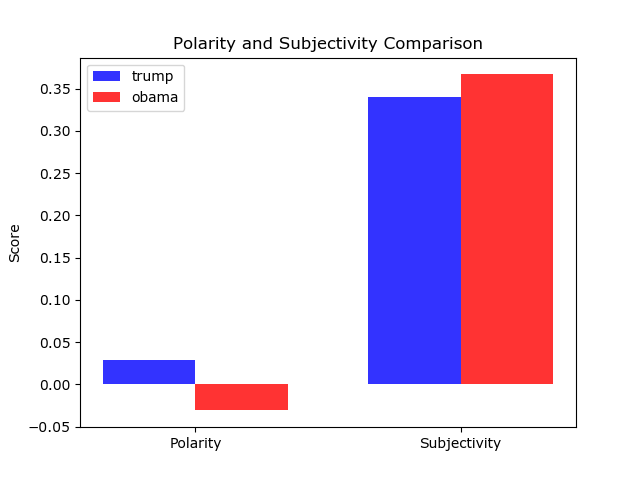
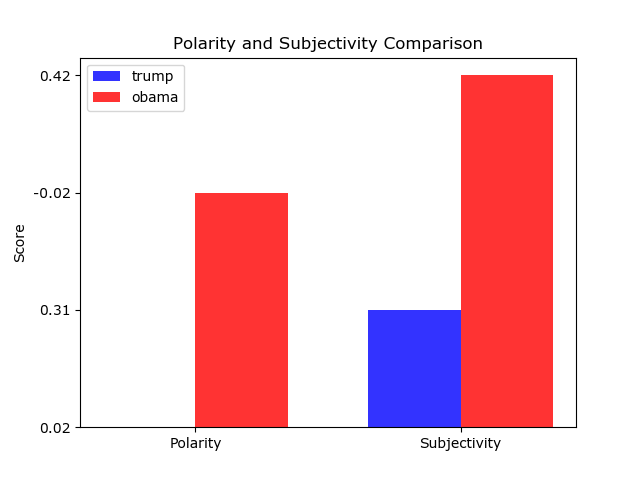
hi

diff --git a/templates/homepage.html b/templates/homepage.html
@@ -1,0 +1,58 @@
+<html lang="en"> 
+
+  <head>
+      <meta http-equiv="content-type" content="text/html; charset=utf-8" />
+      <meta name="viewport" content="width=device-width, initial-scale=1.0, maximum-scale=2.0, user-scalable=yes" />
+      <meta name="apple-mobile-web-app-capable" content="yes" />
+      <meta name="apple-mobile-web-app-status-bar-style" content="black" />
+      <meta name="mobile-web-app-capable" content="yes" /> 
+      <link rel="stylesheet" href="{{ url_for('static',    filename='css/style.css') }}">  
+  <title>Sentiment Analysis</title>
+
+	<style>
+	/* Your styles go here */
+	</style>
+	
+	<script>
+	/* Your JavaScript goes here */
+	</script>
+  </head>
+
+  <body>
+
+
+<h1> Welcome to the Sentiment Analysis world! </h1>
+
+<p> 
+
+    <img id="pic1" src="https://www.cure-sa.eu/fileadmin/_processed_/6/6/csm_Sentimentanalyse_c3fbda7133.jpg" title="hello"/>
+</p>
+
+<h2> What sentiment information would you like to get? </h2>
+
+<h2> User Guidelines</h2>
+<p> If you want to get the general sentiment about a specific keyword, 
+  you can use our Overall Sentiment option. This also, allows you to 
+compare the general sentiment of two different keywords. 
+You can utilize these tools to compare the sentiment of two rivalry keywords
+that you would like to analyze. Moreover, it also provides a comparative bar chart 
+of the two keywords, which would allow you to better identify the differences among 
+the sentiments of two keywords.  </p>
+
+<p> If you prefer to get the sentiment of a specific twitter account regarding 
+  various topics, you can utilize our Individual Sentiment option above. Simply click on the 
+  Individual Sentiment Analysis above. This option allows the users to put as many keywords as 
+  you would like to analyze. Users must put in a specific user account id, for us to analyze the 
+  sentiments! It also provides a several informative charts that depicts the historical 
+  changes in the length of the tweets, historical changes of the likes and retweets of the tweets
+  regarding the selected topics posted by the selected twitter account. 
+</p>
+
+<p> 
+
+<img id="pic1" src="https://www.cure-sa.eu/fileadmin/_processed_/6/6/csm_Sentimentanalyse_c3fbda7133.jpg" title="hello"/>
+</p>
+</form>
+
+  </body>
+</html>

diff --git a/templates/aboutus.html b/templates/aboutus.html
@@ -1,0 +1,51 @@
+<html lang="en"> 
+
+  <head>
+      <meta http-equiv="content-type" content="text/html; charset=utf-8" />
+      <meta name="viewport" content="width=device-width, initial-scale=1.0, maximum-scale=2.0, user-scalable=yes" />
+      <meta name="apple-mobile-web-app-capable" content="yes" />
+      <meta name="apple-mobile-web-app-status-bar-style" content="black" />
+      <meta name="mobile-web-app-capable" content="yes" /> 
+      <link rel="stylesheet" href="{{ url_for('static',    filename='css/style.css') }}">  
+  <title>About Us</title>
+
+	<style>
+	/* Your styles go here */
+	</style>
+	
+	<script>
+	/* Your JavaScript goes here */
+	</script>
+  </head>
+
+  <body>
+
+
+<h2> Who are we? </h2>
+
+<p> We are a group of students at Babson College, learning Python through 
+Problem Solving & Software Design class. We created this website for the purpose of 
+providing a simple and straighforward website that can provide sentiment analysis for any 
+keyword users puts in! Sentiment analysis is a process of analyzing the emotional tone behind the series of words. 
+Through sentiment analysis, users can identify if the keyword is positive, neutral, or negative. 
+Moreover, it is one of the most commonly used tools for analyzing opinions about a specific topic. 
+We wanted to create an accessible and easy-to-use website that does the hard work for numerous companies that conduct sentiment analysis. 
+Rather than having to create a whole programming application to conduct sentiment analysis, 
+users can simply go on our website to get sentiment-related information about any topics. 
+</p>
+
+<h2> How does our analysis work? </h2>
+
+<p> Sentiment analysis of the keywords users put in would be sentiments based on the tweets posted 
+on Twitter server. Since Twitter is one of the most popular social media platforms, nowadays, we believe that 
+our analysis would provide a holistic and comprehensive view of the overall sentiment of the 
+public. Through our website, users would get three specific analyses, which includes polaritiy, subjectivity, and 
+overall sentiment. 
+</p>
+
+<img id="pic1" src="https://www.cure-sa.eu/fileadmin/_processed_/6/6/csm_Sentimentanalyse_c3fbda7133.jpg" title="hello"/>
+
+</form>
+
+  </body>
+</html>

diff --git a/templates/results1.html b/templates/results1.html
@@ -43,13 +43,19 @@
 <p> 
     The polarity and the subjectivity of the first keyword, {{ firstkeyword }}, is below.<br>
     Polarity: {{ polarity1 }}  Subjectivity: {{ subjectivity1 }}. <br>
-    Based on the polarity, the overall sentiment of the keyword {{ firskeyword }} is {{ label1 }}. <br>
+    Based on the polarity, the overall sentiment of the keyword {{ firskeyword }} is {{ label1 }}. <br><br>
 
-    <!-- The polarity and the subjectivity of the second keyword, {{ secondkeyword }}, is below.<br>
+    The polarity and the subjectivity of the second keyword, {{ secondkeyword }}, is below.<br>
     Polarity: {{ polarity2 }}  Subjectivity: {{ subjectivity2 }}. <br>
-    Based on the polarity, the overall sentiment of the second keyword {{ subjectivity2 }} is {{ label2 }}. 
+    Based on the polarity, the overall sentiment of the second keyword {{ subjectivity2 }} is {{ label2 }}. <br><br>
 
-    <img src= {{barplot}} alt="Bar Plot">    -->
+    For your reference of the analyses... 
+    Polarity is a float within the range [-1.0, 1.0], -1.0 being completely negative and 1.0 being completely positive.<br>
+    Subjectivity is a float within the range [0.0, 1.0] where 0.0 is very objective and 1.0 is very subjective.<br><br>
+</p>
+<p>
+    Below is the bar plot that displays the comparison of polarity and subjectivity between the two keywords.<br>
+    <img src= {{barplot}} alt="Bar Plot">   
 
 </p>
 {% endblock %}  

diff --git a/templates/overall.html b/templates/overall.html
@@ -17,14 +17,25 @@
   
   <script src="http://code.jquery.com/jquery.min.js"></script> 
 	<script>
-      $(function (){
-         /* Jquery 2 */
-        $("#y").click(function(){
-        $("#section2").fadeIn("slow");
-        
-    })
-      });
+
 	/* Your JavaScript goes here */
+  function validate()
+  {
+    if (document.getElementById("firstkeyword").value =="")
+        { alert ("KeyWord is Required!"); 
+          document.getElementById("firstkeyword").focus();}
+    else if (document.getElementById("yes").checked==true && document.getElementById("secondkeyword").value=="")
+        {
+          alert ("Second Keyword is Required!")
+          document.getElementById("secondkeyword").focus();
+        }
+    else 
+        {
+          return true;
+        }
+    return false;
+            
+  }
  
 	</script>
   </head>
@@ -44,7 +55,7 @@
 	<!-- Your HTML goes here -->
 <!--use <i> for italicizing word, <br> for break, <hr> for a line break, <h1> </h1> for header-->
 <h1> Sentiment Analysis </h1>
-<form method="POST" name="form1"> 
+<form method="POST" name="form1" onsubmit="return validate()"> 
     <p> What topic would you like to search?</p>
     <input type="text" name="firstkeyword" maxlength="100" id="first"/>
 

diff --git a/templates/results2.html b/templates/results2.html
@@ -43,13 +43,11 @@
 <p> 
     The polarity and the subjectivity of the first keyword, {{ firstkeyword }}, is below.<br>
     Polarity: {{ polarity1 }}  Subjectivity: {{ subjectivity1 }}. <br>
-    Based on the polarity, the overall sentiment of the keyword {{ firskeyword }} is {{ label1 }}. <br>
+    Based on the polarity, the overall sentiment of the keyword {{ firskeyword }} is {{ label1 }}. <br><br>
 
-    The polarity and the subjectivity of the second keyword, {{ secondkeyword }}, is below.<br>
-    Polarity: {{ polarity2 }}  Subjectivity: {{ subjectivity2 }}. <br>
-    Based on the polarity, the overall sentiment of the second keyword {{ subjectivity2 }} is {{ label2 }}. 
-
-    <img src= {{barplot}} alt="Bar Plot">   
+    For your reference of the analyses... 
+    Polarity is a float within the range [-1.0, 1.0], -1.0 being completely negative and 1.0 being completely positive.<br>
+    Subjectivity is a float within the range [0.0, 1.0] where 0.0 is very objective and 1.0 is very subjective.<br><br>
 
 </p>
 {% endblock %}  

diff --git a/static/css/style.css b/static/css/style.css
@@ -1,11 +1,13 @@
 
-p {font-family:  monaco, Consolas, "Lucida Console", monospace; padding-bottom: 10px;}
+p {font-family:  monaco, Consolas, "Lucida Console", monospace;}
 body {padding: 14px 16px;
       margin-left: 120px;
      background-color: aliceblue;
 }
 
 div {display:none;}
+
+
         
 ul {font-family:"Allerta Stencil";
 	font-size: 15pt;
@@ -57,4 +59,39 @@ li.dropdown {
 
 .dropdown:hover .dropdown-content {
     display: block;
+}
+
+img {border-radius: 0px; border: 3px solid lightskyblue; margin-top: 30px;}
+
+form{margin-left: 15px;
+    width: 200%;
+}
+
+
+
+input[type=text] {
+   width: 10%;
+   padding: 12px 20px;
+   margin: 8px 0;
+}
+input[type=submit] {
+   width: 5%;
+   padding: 12px 20px;
+   margin: 8px 0;
+}
+input[type=reset] {
+   width: 5%;
+   padding: 12px 20px;
+   margin: 8px 0;
+}
+select{
+   width: 15%;
+   padding: 15px 20px;
+   margin: 8px 5px;
+
+ }
+textarea{
+   width: 30%;
+   padding: 12px 20px;
+   margin: 8px 0;
 }

diff --git a/templates/template.html b/templates/template.html
@@ -19,7 +19,9 @@
         <ul id="top"> 	
         <li><a href="{{ url_for('overall_sentiment_analysis') }}" style="font-family:  monaco, Consolas, 'Lucida Console', monospace;">Home</a></li>
         <li class="dropdown">
-            <a href="{{ url_for('overall_sentiment_analysis') }}" style="font-family:  monaco, Consolas, 'Lucida Console', monospace;" class="dropbtn">Sentiment Analysis</a>  
+            <a href="{{ url_for('overall_sentiment_analysis') }}" style="font-family:  monaco, Consolas, 'Lucida Console', monospace;" class="dropbtn">Overall Sentiment Analysis</a> 
+         <li>
+        <a href="{{ url_for('overall_sentiment_analysis') }}" style="font-family:  monaco, Consolas, 'Lucida Console', monospace;" class="dropbtn">Individual Sentiment Analysis</a></li> 
            
                       
         </header>

diff --git a/templates/individual.html b/templates/individual.html
@@ -15,15 +15,7 @@
   </head>
 
   <body>
-      <header> 
-          <ul id="top"> 	
-          <li><a href="homepage.htm">Home</a></li>
-          <li class="dropdown">
-          <a href="overall.htm" class="dropbtn">Overall Sentiment</a>
-          <li class="dropdown">
-              <a href="individual.htm" class="dropbtn">Individual Sentiment</a>
-         
-          </header>
+
 	<!-- Your HTML goes here -->
 <!--use <i> for italicizing word, <br> for break, <hr> for a line break, <h1> </h1> for header-->
 <h1> Sentiment Analysis </h1>

diff --git a/app.py b/app.py
@@ -25,8 +25,8 @@ def overall_sentiment_analysis():
         public_tweets = api.search(user_input, count = 1000)
         dictionary_tweets = create_dictionary(public_tweets)
         cleaned_tweets = clean_tweets(dictionary_tweets)
-        polarity1 = get_sentiment(cleaned_tweets)[0]
-        subjectivity1 = get_sentiment(cleaned_tweets)[1]
+        polarity1 = '{0:.2f}'.format(get_sentiment(cleaned_tweets)[0])
+        subjectivity1 = '{0:.2f}'.format(get_sentiment(cleaned_tweets)[1])
         analysis = get_sentiment(cleaned_tweets)
         label1 = get_label(analysis, threshold=0)
 
@@ -37,25 +37,25 @@ def overall_sentiment_analysis():
             dictionary_tweets2 = create_dictionary(public_tweets2)
             cleaned_tweets2 = clean_tweets(dictionary_tweets2)
             analysis2 = get_sentiment(cleaned_tweets2)
-            polarity2 = get_sentiment(cleaned_tweets2)[0]
-            subjectivity2 = get_sentiment(cleaned_tweets2)[1]
+            polarity2 = '{0:.2f}'.format(get_sentiment(cleaned_tweets2)[0])
+            subjectivity2 = '{0:.2f}'.format(get_sentiment(cleaned_tweets2)[1])
             label2 = get_label(analysis2, threshold=0)
             bar_plot(polarity1, subjectivity1, polarity2, subjectivity2, user_input, user_input2)
             full_filename = os.path.join(app.config['UPLOAD_FOLDER'], 'barplot.png')
             return render_template(
-                "results1.htm", firstkeyword = user_input, polarity1 = polarity1, subjectivity1 = subjectivity1,
+                "results1.html", firstkeyword = user_input, polarity1 = polarity1, subjectivity1 = subjectivity1,
                 label1= label1, secondkeyword = user_input2 , polarity2 = polarity2, subjectivity2 = subjectivity2,
                 label2 = label2, barplot = full_filename) 
 
         else: 
             return render_template(
-            "results2.htm", firstkeyword = user_input, polarity1 = polarity1, subjectivity1 = subjectivity1,
+            "results2.html", firstkeyword = user_input, polarity1 = polarity1, subjectivity1 = subjectivity1,
             analysis = analysis, label1=label1) 
 
-    return render_template("overall.htm", error=None)
+    return render_template("overall.html", error=None)
 
 def home():
-    return render_template("homepage.html")
+    return render_template("homepage.html", error=None)
 
 if __name__ =='__main__':
     app1.run()
